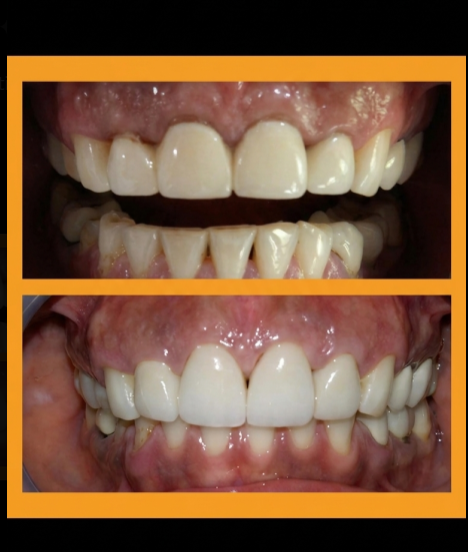
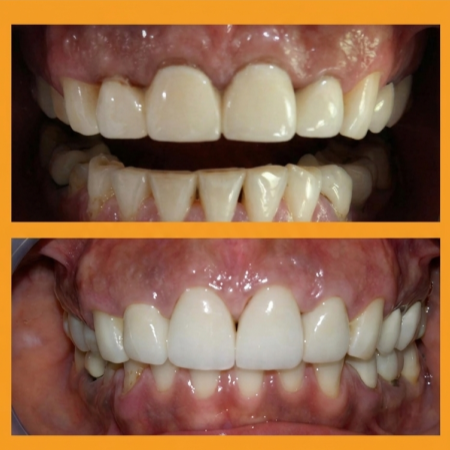
fix: update step 3 image file format
Update step 3 reference from .jpg to .png to match asset.

diff --git a/src/utils/clinic-data.ts b/src/utils/clinic-data.ts
@@ -353,7 +353,7 @@ export const TREATMENT_STEPS: StepItem[] = [
     title: 'A Closer Look at Your Dental Health',
     desc: "Dr. Deepal examines your teeth and overall dental health to understand your needs and decide on the right course of treatment. 2D X-rays may be used when needed.",
     tags: ['Gentle Examination', '2D X-Rays When Needed'],
-    image: '/assets/user/step3.jpg',
+    image: '/assets/user/step3.png',
   },
   {
     step: 'STEP 04',
